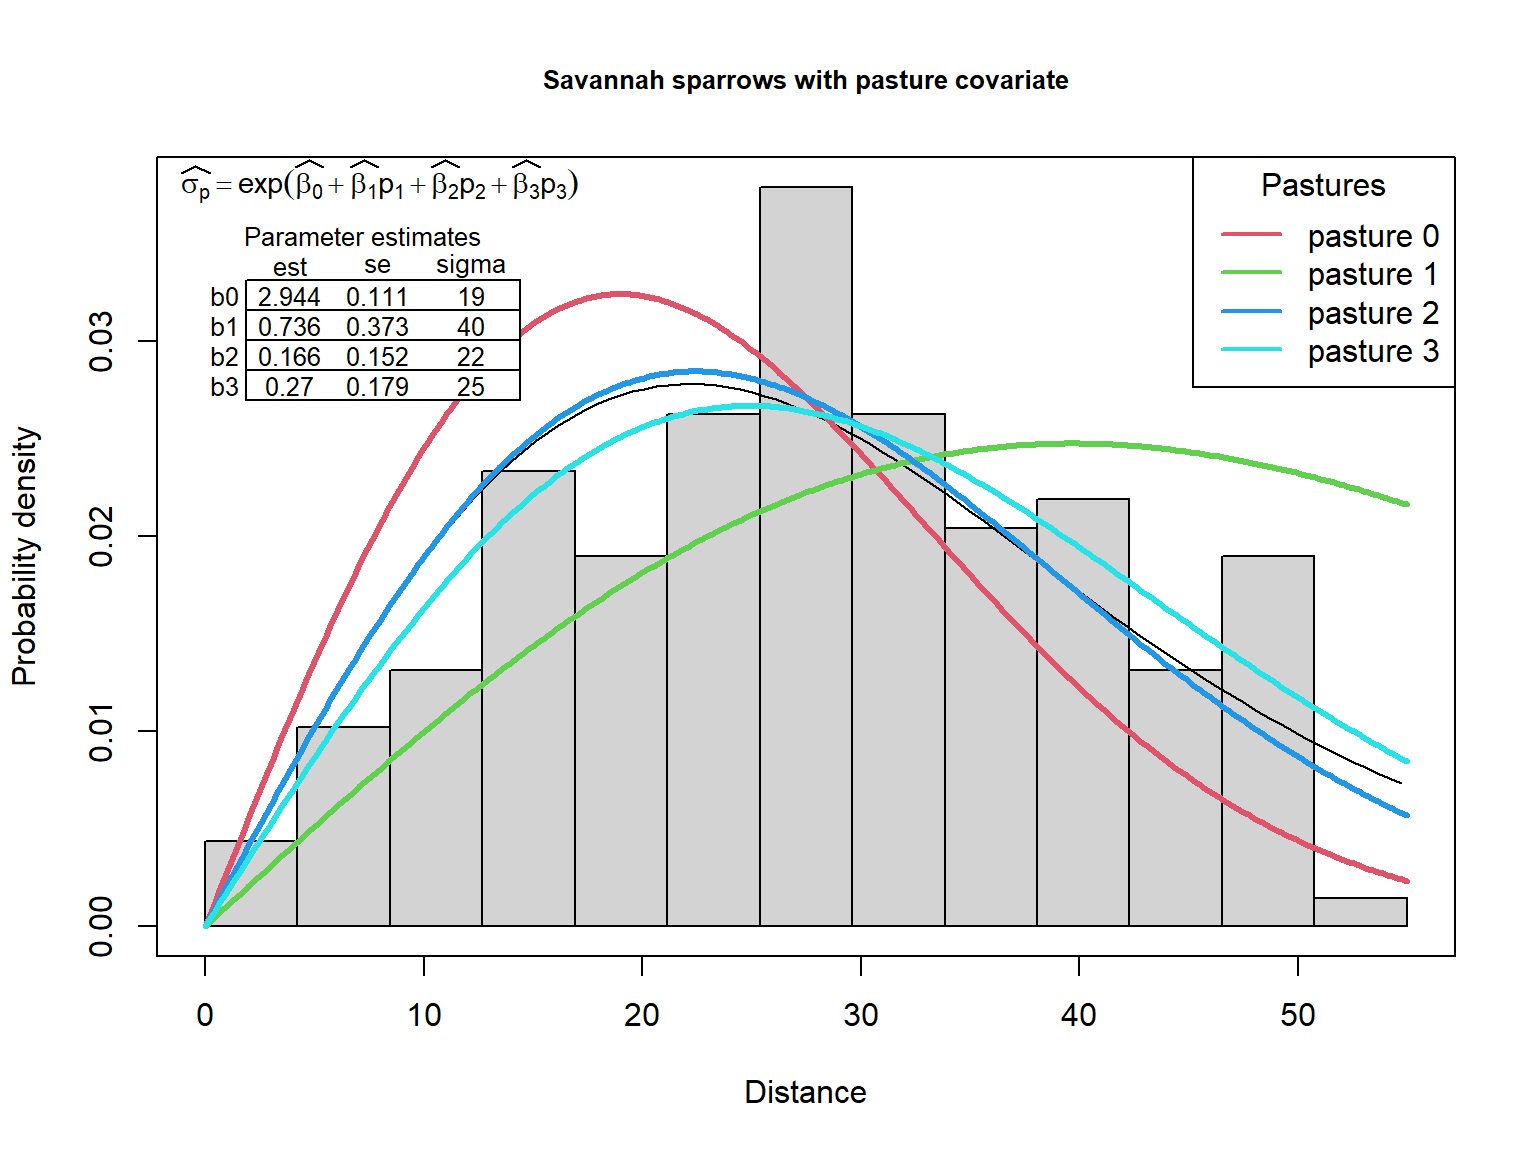
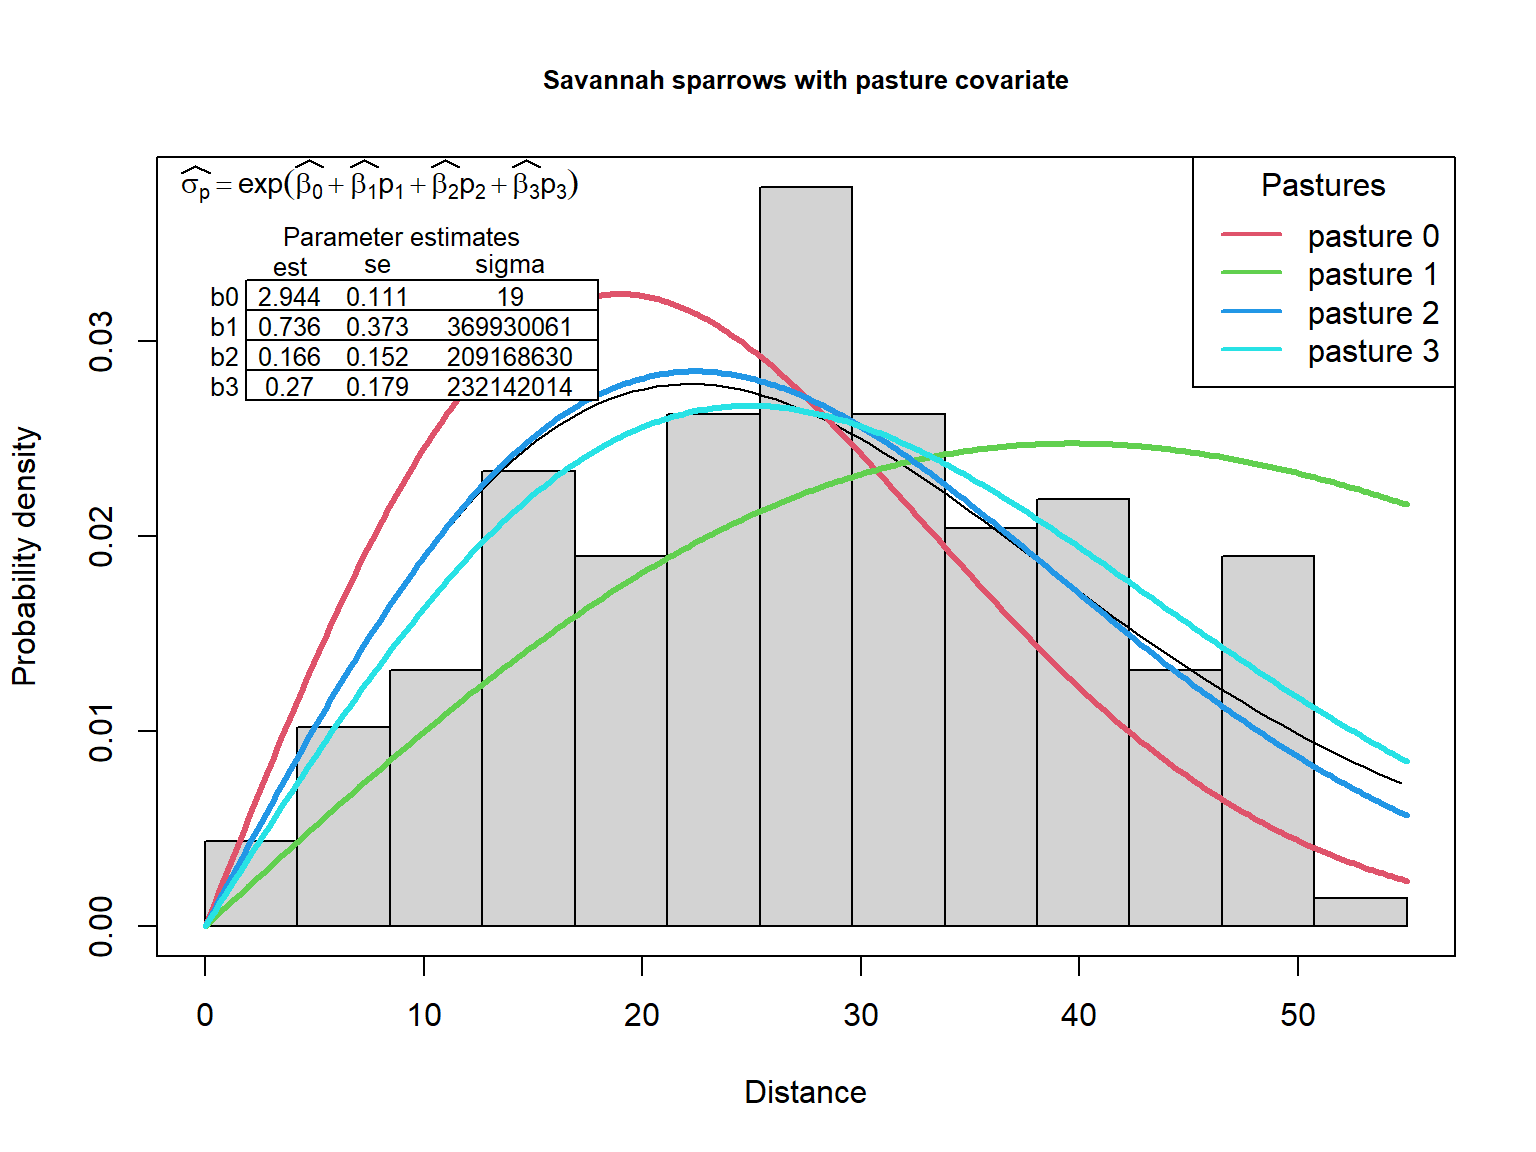
streamline last plot even further

Changed region(s): [[0.1562, 0.1875, 0.4062, 0.3438]]

diff --git a/docs/Pr8/Prac8_solution.html b/docs/Pr8/Prac8_solution.html
@@ -983,18 +983,15 @@ Savannah_sparrow_1981.hr.region  5 1260.638</code></pre>
 <span id="cb31-17"><a href="#cb31-17" aria-hidden="true" tabindex="-1"></a>temp <span class="ot">&lt;-</span> <span class="fu">round</span>(<span class="fu">diag</span>(<span class="fu">diag</span>(<span class="fu">sqrt</span>(<span class="fu">diag</span>(<span class="fu">solve</span>(hessian))))),<span class="dv">3</span>)</span>
 <span id="cb31-18"><a href="#cb31-18" aria-hidden="true" tabindex="-1"></a>pasture.sigma <span class="ot">&lt;-</span> <span class="fu">vector</span>(<span class="at">mode=</span><span class="st">"numeric"</span>, <span class="at">length=</span><span class="dv">4</span>)</span>
 <span id="cb31-19"><a href="#cb31-19" aria-hidden="true" tabindex="-1"></a>pasture.sigma[<span class="dv">1</span>] <span class="ot">&lt;-</span> <span class="fu">exp</span>(Savannah_sparrow_1981.hn.region<span class="sc">$</span>ddf<span class="sc">$</span>par[<span class="dv">1</span>])</span>
-<span id="cb31-20"><a href="#cb31-20" aria-hidden="true" tabindex="-1"></a>pasture.sigma[<span class="dv">2</span>] <span class="ot">&lt;-</span> <span class="fu">exp</span>(Savannah_sparrow_1981.hn.region<span class="sc">$</span>ddf<span class="sc">$</span>par[<span class="dv">1</span>] <span class="sc">+</span></span>
-<span id="cb31-21"><a href="#cb31-21" aria-hidden="true" tabindex="-1"></a>                        Savannah_sparrow_1981.hn.region<span class="sc">$</span>ddf<span class="sc">$</span>par[<span class="dv">2</span>])</span>
-<span id="cb31-22"><a href="#cb31-22" aria-hidden="true" tabindex="-1"></a>pasture.sigma[<span class="dv">3</span>] <span class="ot">&lt;-</span> <span class="fu">exp</span>(Savannah_sparrow_1981.hn.region<span class="sc">$</span>ddf<span class="sc">$</span>par[<span class="dv">1</span>] <span class="sc">+</span></span>
-<span id="cb31-23"><a href="#cb31-23" aria-hidden="true" tabindex="-1"></a>                        Savannah_sparrow_1981.hn.region<span class="sc">$</span>ddf<span class="sc">$</span>par[<span class="dv">3</span>])</span>
-<span id="cb31-24"><a href="#cb31-24" aria-hidden="true" tabindex="-1"></a>pasture.sigma[<span class="dv">4</span>] <span class="ot">&lt;-</span> <span class="fu">exp</span>(Savannah_sparrow_1981.hn.region<span class="sc">$</span>ddf<span class="sc">$</span>par[<span class="dv">1</span>] <span class="sc">+</span></span>
-<span id="cb31-25"><a href="#cb31-25" aria-hidden="true" tabindex="-1"></a>                        Savannah_sparrow_1981.hn.region<span class="sc">$</span>ddf<span class="sc">$</span>par[<span class="dv">4</span>])</span>
-<span id="cb31-26"><a href="#cb31-26" aria-hidden="true" tabindex="-1"></a>parms <span class="ot">&lt;-</span> <span class="fu">data.frame</span>(<span class="at">est=</span><span class="fu">round</span>(Savannah_sparrow_1981.hn.region<span class="sc">$</span>ddf<span class="sc">$</span>par,<span class="dv">3</span>),</span>
-<span id="cb31-27"><a href="#cb31-27" aria-hidden="true" tabindex="-1"></a>                    <span class="at">se=</span>temp, <span class="at">sigma=</span><span class="fu">round</span>(pasture.sigma,<span class="dv">0</span>))</span>
-<span id="cb31-28"><a href="#cb31-28" aria-hidden="true" tabindex="-1"></a><span class="fu">rownames</span>(parms) <span class="ot">&lt;-</span> <span class="fu">c</span>(<span class="st">"b0"</span>, <span class="st">"b1"</span>, <span class="st">"b2"</span>, <span class="st">"b3"</span>)</span>
-<span id="cb31-29"><a href="#cb31-29" aria-hidden="true" tabindex="-1"></a><span class="fu">addtable2plot</span>(<span class="dv">0</span>, <span class="fl">0.027</span>, parms, <span class="at">bty=</span><span class="st">"o"</span>,</span>
-<span id="cb31-30"><a href="#cb31-30" aria-hidden="true" tabindex="-1"></a>              <span class="at">display.rownames=</span><span class="cn">TRUE</span>,<span class="at">hlines=</span><span class="cn">TRUE</span>, <span class="at">cex=</span><span class="fl">0.8</span>,</span>
-<span id="cb31-31"><a href="#cb31-31" aria-hidden="true" tabindex="-1"></a>              <span class="at">xpad=</span><span class="fl">0.4</span>, <span class="at">vlines=</span><span class="cn">FALSE</span>,<span class="at">title=</span><span class="st">"Parameter estimates"</span>)</span></code><button title="Copy to Clipboard" class="code-copy-button"><i class="bi"></i></button></pre></div>
+<span id="cb31-20"><a href="#cb31-20" aria-hidden="true" tabindex="-1"></a><span class="cf">for</span>( i <span class="cf">in</span> <span class="fu">c</span>(<span class="dv">2</span>,<span class="dv">3</span>,<span class="dv">4</span>) ) {</span>
+<span id="cb31-21"><a href="#cb31-21" aria-hidden="true" tabindex="-1"></a>  pasture.sigma[i] <span class="ot">&lt;-</span> <span class="fu">exp</span>(pasture.sigma[<span class="dv">1</span>] <span class="sc">+</span> Savannah_sparrow_1981.hn.region<span class="sc">$</span>ddf<span class="sc">$</span>par[i])</span>
+<span id="cb31-22"><a href="#cb31-22" aria-hidden="true" tabindex="-1"></a>}</span>
+<span id="cb31-23"><a href="#cb31-23" aria-hidden="true" tabindex="-1"></a>parms <span class="ot">&lt;-</span> <span class="fu">data.frame</span>(<span class="at">est=</span><span class="fu">round</span>(Savannah_sparrow_1981.hn.region<span class="sc">$</span>ddf<span class="sc">$</span>par,<span class="dv">3</span>),</span>
+<span id="cb31-24"><a href="#cb31-24" aria-hidden="true" tabindex="-1"></a>                    <span class="at">se=</span>temp, <span class="at">sigma=</span><span class="fu">round</span>(pasture.sigma,<span class="dv">0</span>))</span>
+<span id="cb31-25"><a href="#cb31-25" aria-hidden="true" tabindex="-1"></a><span class="fu">rownames</span>(parms) <span class="ot">&lt;-</span> <span class="fu">c</span>(<span class="st">"b0"</span>, <span class="st">"b1"</span>, <span class="st">"b2"</span>, <span class="st">"b3"</span>)</span>
+<span id="cb31-26"><a href="#cb31-26" aria-hidden="true" tabindex="-1"></a><span class="fu">addtable2plot</span>(<span class="dv">0</span>, <span class="fl">0.027</span>, parms, <span class="at">bty=</span><span class="st">"o"</span>,</span>
+<span id="cb31-27"><a href="#cb31-27" aria-hidden="true" tabindex="-1"></a>              <span class="at">display.rownames=</span><span class="cn">TRUE</span>,<span class="at">hlines=</span><span class="cn">TRUE</span>, <span class="at">cex=</span><span class="fl">0.8</span>,</span>
+<span id="cb31-28"><a href="#cb31-28" aria-hidden="true" tabindex="-1"></a>              <span class="at">xpad=</span><span class="fl">0.4</span>, <span class="at">vlines=</span><span class="cn">FALSE</span>,<span class="at">title=</span><span class="st">"Parameter estimates"</span>)</span></code><button title="Copy to Clipboard" class="code-copy-button"><i class="bi"></i></button></pre></div>
 <div class="cell-output-display">
 <div class="quarto-figure quarto-figure-center">
 <figure class="figure">
